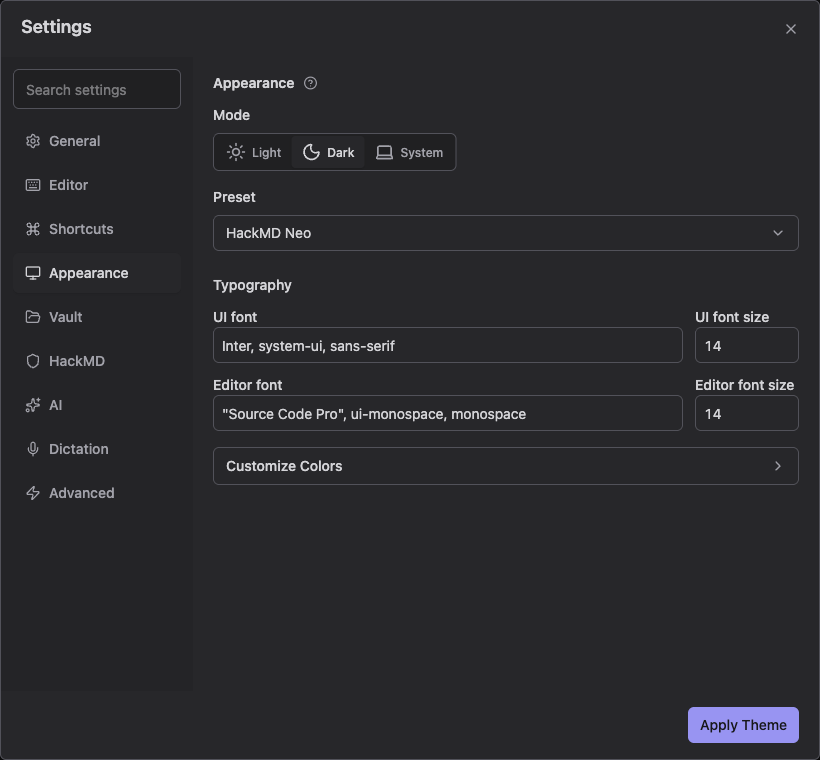
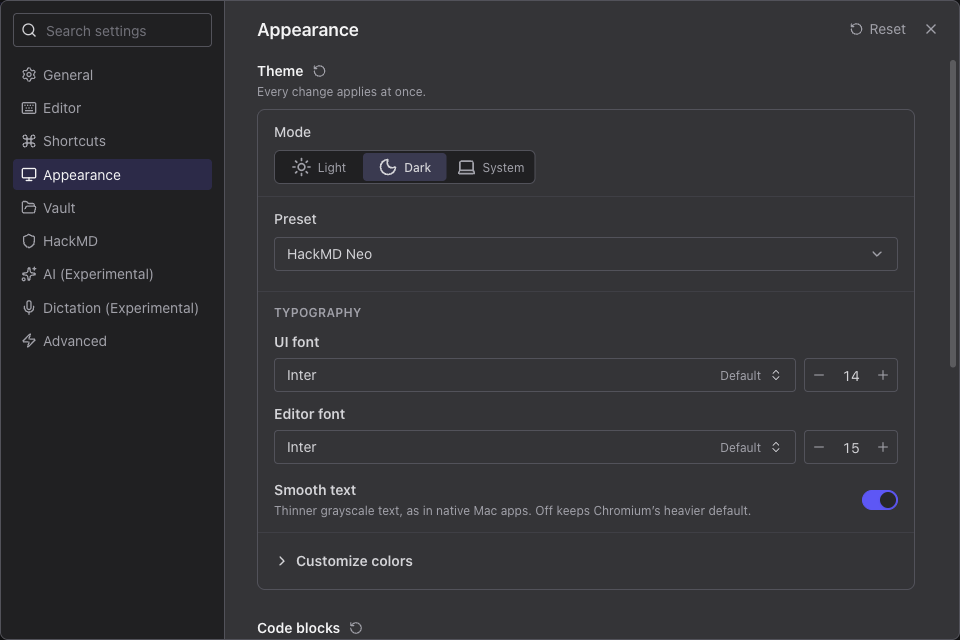
docs: refresh beta.13 guides and app artwork

diff --git a/docs/.vitepress/config.ts b/docs/.vitepress/config.ts
@@ -19,7 +19,8 @@ export default defineConfig({
   description: DESCRIPTION,
 
   head: [
-    ['link', { rel: 'icon', type: 'image/png', href: '/logo.png' }],
+    ['link', { rel: 'icon', type: 'image/png', sizes: '32x32', href: '/favicon.png' }],
+    ['link', { rel: 'icon', type: 'image/svg+xml', href: '/favicon.svg' }],
     ['meta', { name: 'color-scheme', content: 'light dark' }],
     ['meta', { property: 'og:type', content: 'website' }],
     ['meta', { property: 'og:title', content: TITLE }],

diff --git a/docs/config.md b/docs/config.md
@@ -6,21 +6,23 @@ outline: deep
 
 Open **Settings** with **Cmd+,** on macOS or **Ctrl+,** on Windows/Linux.
 
+Changes save automatically. Use the reset control beside a section's title to restore its defaults.
+
 Use **Search settings** to find a field. For example, search `font` and choose **Editor font** to open Appearance and focus the input. Arrow keys move through results; Enter opens one. Searching does not save changes.
 
 ## Change appearance
 
 In **Settings → Appearance**, choose a theme, colors, fonts, and text sizes. Search the font picker for an installed font. Prose uses a proportional font by default; code stays monospace.
 
-Choose **Apply Theme** to keep the preview or **Cancel Preview** to restore the saved appearance. **Smooth text** controls font smoothing. **Indent guides** and **Status line** take effect immediately.
+Appearance changes take effect immediately. **Smooth text** controls font smoothing; **Indent guides** and **Status line** control editor details.
 
 ![Appearance settings with the HackMD Neo dark preset](/custom-settings.png)
 
-*HackDesk beta.10 with demonstration data.*
+*HackDesk beta.13 with demonstration data.*
 
 ## Choose an editor mode
 
-In **Settings → Editor**, choose Standard, Vim, Helix, Emacs, or experimental Kakoune, then **Save**.
+In **Settings → Editor**, choose Standard, Vim, Helix, Emacs, or experimental Kakoune.
 
 Under **New tab opens**, choose **Empty page** or **Duplicate current note**. This preference takes effect immediately.
 
@@ -30,7 +32,7 @@ Editor modes control text editing. [Workbench navigation](./keyboard-navigation.
 
 ## Change shortcuts
 
-In **Settings → Shortcuts**, find an action, record a shortcut, then **Save**. Use its reset control to restore the default. You can also disable `?`, `/`, and Space outside text editing.
+In **Settings → Shortcuts**, find an action and record a shortcut. Use its reset control to restore the default. You can also disable `?`, `/`, and Space outside text editing.
 
 The **Quick Hack** section holds Quick Hack's two shortcuts: **Open or close Quick Hack**, the global hotkey (**Ctrl+Alt+H** by default), and **Pin Quick Hack**, which works inside the popup. Record new keys the same way, or press Backspace while recording to turn one off. Both need Cmd, Ctrl or Alt, and they can't share keys with each other or with the popup's editor. The hotkey's row shows whether the system accepted it. See [Quick Hack](./quick-hack.md#change-the-global-shortcut).
 
@@ -40,9 +42,9 @@ In **Settings → General → Quick Hack**, turn on **Keep open after capture** 
 
 ## Manage HackMD and Local Vault
 
-Use **Settings → HackMD** to connect or disconnect an account. Disconnecting removes the saved token and offline HackMD copies; it does not delete remote notes.
+Use **Settings → HackMD** to connect an account. Choose **Connect another account** to add more, then switch accounts from the sidebar. Each account has its own saved token. Disconnecting removes the token and local offline copies; it does not delete remote notes.
 
-Use **Settings → Vault** to change or forget a vault. Forgetting keeps its files and saved workspace layout. Selecting it again restores its tabs and drafts.
+Use **Settings → Vault** to add or remove local folders and manage named workspaces. Removing a folder from HackDesk does not delete its Markdown files.
 
 ## Edit settings.json
 

diff --git a/docs/features.md b/docs/features.md
@@ -6,9 +6,9 @@ outline: deep
 
 Open notes in tabs, arrange them in panes, and save them to a Local Vault or HackMD. To connect a workspace, [get started](./intro.md).
 
-![Reading notes and a project plan open side by side in HackDesk](/editor.png)
+![Project plan and release checklist open in separate panes, beside two demonstration folders](/editor.png)
 
-*HackDesk beta.10 with demonstration notes.*
+*HackDesk beta.13 with demonstration notes.*
 
 ## Choose a workspace
 
@@ -103,20 +103,20 @@ HackMD tag fields also suggest existing tags. New code blocks and containers inc
 
 ## Read books
 
-A book note uses headings and bulleted links as its table of contents. HackMD books open with **Book contents** beside the editor. For another note, choose **Open as Book** from **More actions** or the Command Palette.
+A book note uses headings and bulleted links as its table of contents. Each open book has its own tab, with **Book contents** beside the editor. For another note, choose **Open as Book** from **More actions** or the Command Palette.
 
 Choose a chapter, or use **Previous Chapter** and **Next Chapter**. Chapters follow the same link rules as other notes. Edit the table of contents and save to update it. **Close book** hides the contents.
 
 ## Present slides
 
-Choose **Present** from **More actions**, the View menu, or the Command Palette. The presentation includes unsaved edits. Notes with `type: slide` also show Present in the toolbar.
+Choose **Present** from **More actions**, the View menu, or the Command Palette. Slides open in a separate window and include unsaved edits. Notes with `type: slide` also show Present in the toolbar.
 
 - Use `---` on its own line, with blank lines above and below, for a new slide; use `----` for a slide below. These separators also apply inside code blocks.
 - Start a line with `note:` for hidden speaker notes.
 - Use `<!-- .slide: ... -->` and `<!-- .element: ... -->` for slide and element attributes.
 - Set the theme, transition, and controls through `slideOptions` in front matter. Script-loading options are ignored.
 
-Arrow keys or Space advance, **O** opens the overview, and **Escape** exits. Math is supported; embeds and diagrams remain text. Themes use system fonts instead of remote web fonts.
+Arrow keys or Space advance, and **O** opens the overview. Press **F** for full screen. **Escape** leaves full screen, then closes the presentation window. Math is supported; embeds and diagrams remain text. Themes use system fonts instead of remote web fonts.
 
 ## Write with AI
 

diff --git a/CHANGELOG.md b/CHANGELOG.md
@@ -7,6 +7,7 @@ All notable changes to this project will be documented in this file. See [standa
 ### Workspaces and panes
 
 * Open multiple windows and local Markdown folders. Save named workspaces to keep a set of folders together in the sidebar.
+* Connect multiple HackMD accounts and switch between them, with a separate saved token for each account.
 * Use tabs in each pane. Drag tabs between panes or to an edge to split the workbench.
 * Group folder-less HackMD notes by their first tag. Keep folder structure when sorting notes.
 * Use Note Settings for metadata, Share Note for permissions and links, and Note Details for comments and backlinks.
@@ -15,7 +16,9 @@ All notable changes to this project will be documented in this file. See [standa
 
 * Pin Quick Hack to capture several ideas, use the shortcut again to close it, and choose custom shortcuts. Write highlighted Markdown with list continuation and formatting keys.
 * Improve code fences, line numbers, inline HTML, math, image sizing and containers. Collapse front matter and search from a floating Find in Note card.
+* Keep each book in its own tab and present slides in a separate window, with optional full screen.
 * Choose code syntax colors, window translucency and more app icon styles in Settings.
+* Save Settings changes automatically and reset individual sections to their defaults.
 * Reduce startup work, build large folder trees near the visible area, and reuse preview widgets while moving through long notes.
 
 ### Fixes and beta notes

diff --git a/docs/install.md b/docs/install.md
@@ -39,6 +39,20 @@ xattr -dr com.apple.quarantine "/Applications/HackDesk.app"
 
 If macOS still blocks launch, try opening HackDesk once. Then open **System Settings → Privacy & Security → Open Anyway**, authenticate, and confirm **Open**.
 
+#### Download with GitHub CLI
+
+Install [GitHub CLI](https://cli.github.com/) and sign in with `gh auth login`, then download and extract the Apple silicon ZIP:
+
+```sh
+gh release download v2.0.0-beta.13 --repo EastSun5566/hackdesk \
+  --pattern 'HackDesk-2.0.0-beta.13-arm64.zip' --dir ./hackdesk-beta13
+ditto -x -k ./hackdesk-beta13/HackDesk-2.0.0-beta.13-arm64.zip ./hackdesk-beta13
+```
+
+For Intel Macs, replace `arm64` with `x64` in both commands. Quit HackDesk, then move the extracted `HackDesk.app` to Applications.
+
+Pass the beta tag explicitly. Downloads made by `gh` normally do not have the browser's quarantine attribute; the app is still unsigned. If macOS blocks launch, use the steps above.
+
 ### Windows
 
 Download and run the x64 installer. An unsigned beta can show a Microsoft Defender SmartScreen warning. For the official download, choose **More info → Run anyway** to continue.

diff --git a/docs/keyboard-navigation.md b/docs/keyboard-navigation.md
@@ -12,7 +12,7 @@ Press **Space** outside text editing, or **Cmd+J** / **Ctrl+J** anywhere, to ope
 
 ![Leader menu showing command groups and their keys](/leader-menu.png)
 
-*HackDesk beta.10 with demonstration notes.*
+*HackDesk beta.13 with demonstration notes.*
 
 | Key | Group | Examples |
 | --- | --- | --- |
@@ -74,7 +74,7 @@ Hold **Cmd** on macOS or **Ctrl** on Windows/Linux to show shortcuts and codes f
 
 ![Keyboard hints over the sidebar, note tabs, and editor controls](/keyboard-navigation.png)
 
-*HackDesk beta.10. Codes depend on visible targets and available keys.*
+*HackDesk beta.13. Codes depend on visible targets and available keys.*
 
 Notes, folders, tabs, and workspaces navigate directly. Other buttons receive focus; press Enter to act. Backspace removes a prefix, Escape cancels, and releasing the modifier clears hints.
 

diff --git a/docs/intro.md b/docs/intro.md
@@ -30,14 +30,14 @@ Each vault keeps its own tabs and recoverable drafts. Opening a vault does not u
 
 1. Create an API token in [HackMD settings](https://hackmd.io/settings#api).
 2. Open **Settings → HackMD**.
-3. Paste the token into **API Token** and choose **Save**.
+3. Paste the token into **API Token** and choose **Connect HackMD**.
 4. Open the workspace switcher at the top of the sidebar. Choose **My Workspace** or a team.
 
 HackDesk validates the token and encrypts it with the operating system. Do not include it in shared screenshots or configuration files.
 
 ![HackMD settings with an empty API Token field](/api-integration.png)
 
-*HackDesk beta.10. Demonstration data; no token is shown.*
+*HackDesk beta.13. Demonstration data; no token is shown.*
 
 ## Create and save a note
 

diff --git a/README.md b/README.md
@@ -29,6 +29,8 @@ Save open notes before upgrading. Back up app data before downgrading: beta.12 c
 
 See the [installation guide](https://hackdesk.eastsun.me/install) for platform steps and the [code signing policy](docs/code-signing-policy.md) for signing status.
 
+Prefer the terminal? [Download the macOS beta with GitHub CLI](https://hackdesk.eastsun.me/install#download-with-github-cli).
+
 ### Main previews
 
 [Releases](https://github.com/EastSun5566/hackdesk/releases) also lists `main-<commit>` previews after CI passes. These builds include newer changes, are unsigned, and use manual updates.

diff --git a/docs/quick-hack.md b/docs/quick-hack.md
@@ -19,7 +19,7 @@ Open a Local Vault or connect HackMD and select a personal or team workspace bef
 
 ![Quick Hack popup with a fictional idea in highlighted Markdown, the pin at the bottom left and the Capture button](/quick-hack.png)
 
-*A v2 development build, with demonstration text.*
+*HackDesk beta.13 with demonstration text.*
 
 From another app, successful capture closes the popup without bringing the main workbench forward. From HackDesk, it returns to the main window. To capture several ideas in a row, [pin the popup](#keep-the-popup-open).
 

diff --git a/docs/index.md b/docs/index.md
@@ -25,6 +25,6 @@ Open a [Local Vault or HackMD account](./intro.md), [arrange your notes](./featu
 
 ![HackDesk showing demonstration notes in split panes](/editor.png)
 
-*HackDesk beta.10 with demonstration notes.*
+*HackDesk beta.13 with demonstration notes.*
 
 [Code signing policy](./code-signing-policy.md)
